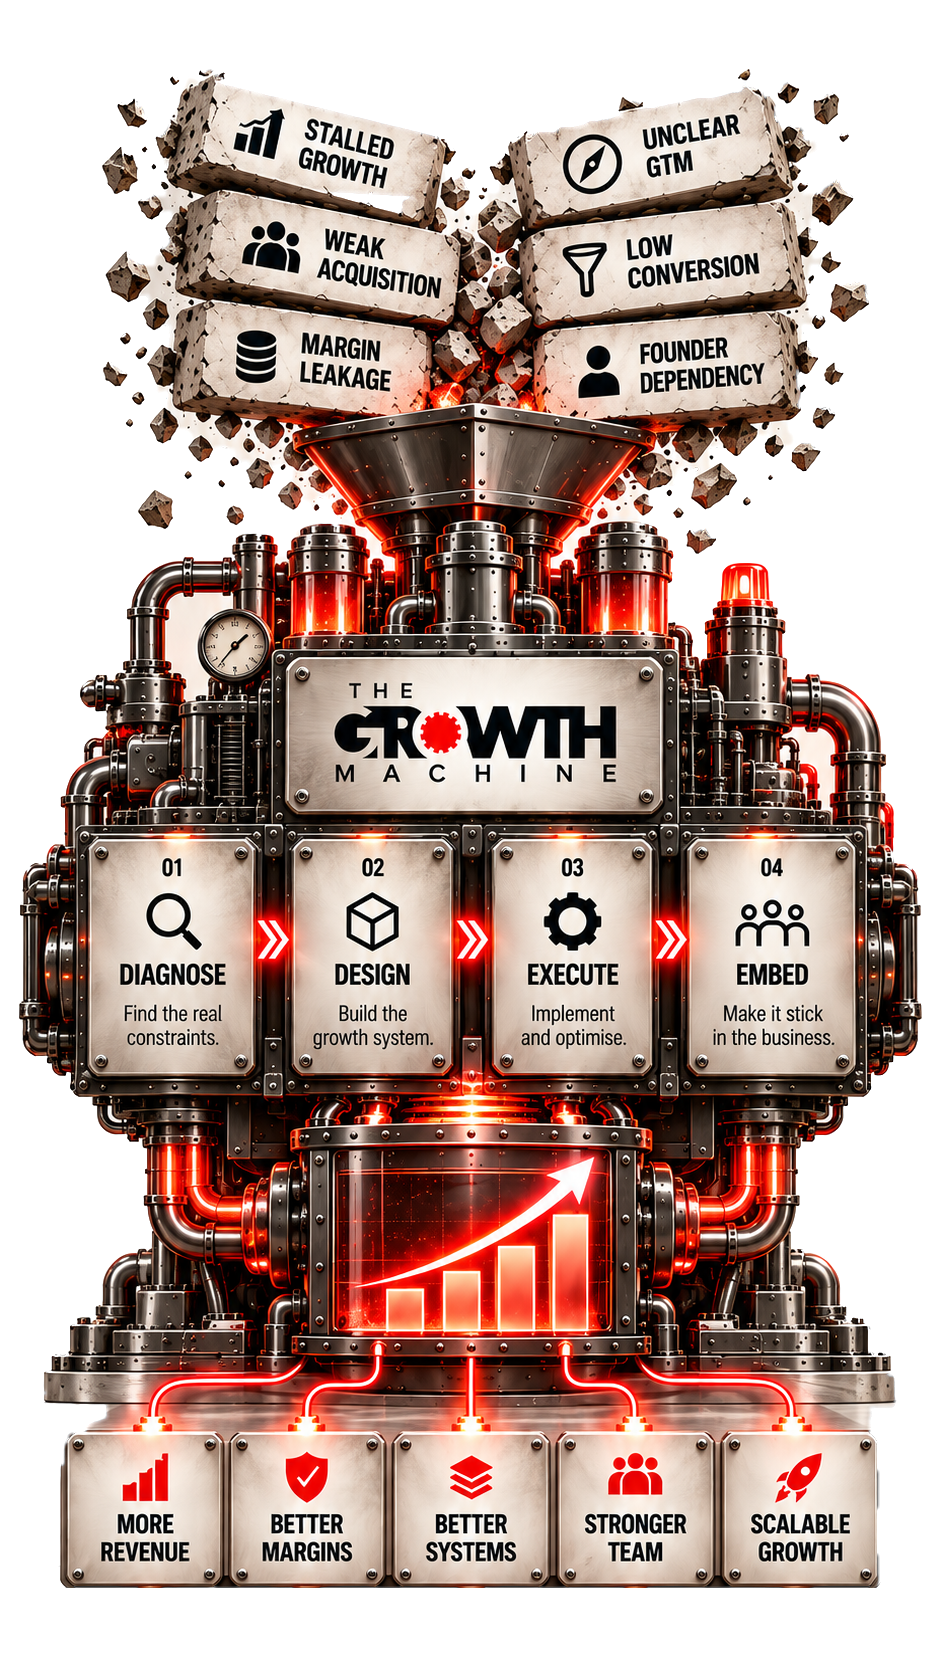
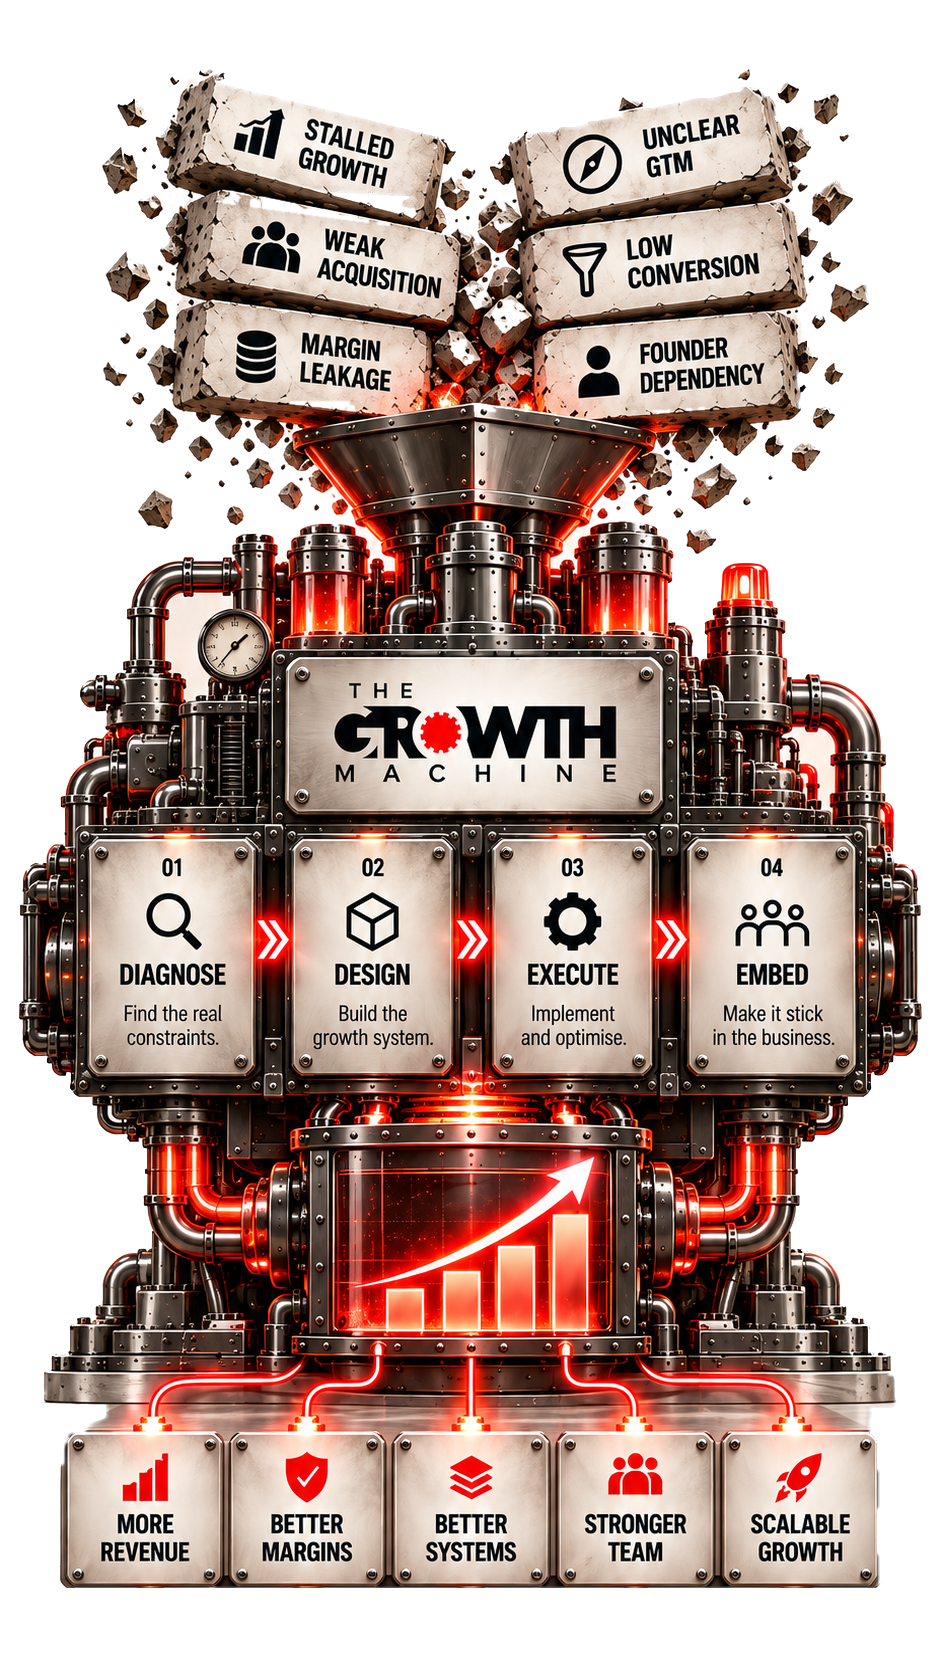
Backlight each object in the machine, not a box around it
Each phase now has its own pre-rendered layer: a torch-red glow hugging
the objects that phase lights, with the objects redrawn on top so the glow
reads as light from behind them. In: every slab and piece of rubble.
Stages: each panel, with four identical outlines so every stage looks the
same when lit. Out: each result block. The moving outline box is gone.

brand/tools/machine-glows.py makes the layers and also removes the last
trapped backdrop from between the rubble and the cables, so the cut-out
holds on a dark page as well as on cream. Layers are 5 to 37KB as AVIF.

Claude-Session: https://claude.ai/code/session_01RD994P3JhY2dxs5GjAWo8M

diff --git a/brand/tools/machine-glows.py b/brand/tools/machine-glows.py
@@ -1,0 +1,172 @@
+"""
+Backlights for the machine sequence, and a clean-up of the cut-outs.
+
+Run from the repo root, after cutout-machine.py has written
+brand/machine/machine-<art>-cutout.png:
+
+    python3 brand/tools/machine-glows.py
+
+For each render it outlines the objects each phase of the sequence lights:
+  in     every slab and every piece of rubble
+  s1-s4  each of the four stage panels
+  out    each result block
+and writes src/assets/machine/glow-<art>-<phase>.png: a torch-red glow hugging
+those outlines, with the objects redrawn on top so the glow reads as light from
+behind them, even where they sit inside the machine body.
+
+It also writes the final cut-out, src/assets/machine/machine-<art>.png, with
+the last specks of studio backdrop removed from between the rubble and the
+cables, so nothing light is left to show on a dark page.
+
+Every outline (slabs, stage panels, result blocks) is measured by hand from the
+originals. Slabs and result blocks are light objects on a light backdrop, so
+no edge test separates them reliably, and the four stage panels must be
+identical in shape so each highlight looks the same as the last.
+"""
+import cv2
+import numpy as np
+
+TORCH = (21, 39, 255)  # BGR of #FF2715
+
+
+def rrect(x, y, w, h):
+    return [(x, y), (x + w, y), (x + w, y + h), (x, y + h)]
+
+
+def chamfer(x, y, w, h, c):
+    """The stage panels' light face: a rectangle with 45-degree corners."""
+    return [(x + c, y), (x + w - c, y), (x + w, y + c), (x + w, y + h - c), (x + w - c, y + h), (x + c, y + h), (x, y + h - c), (x, y + c)]
+
+
+ART = {
+    "desktop": {
+        "in_zone": [(0, 0), (520, 0), (520, 300), (490, 395), (262, 462), (236, 560), (292, 612), (292, 664), (252, 700), (252, 742), (0, 742)],
+        "slabs": [
+            [(18, 86), (254, 146), (260, 232), (12, 180)],
+            [(36, 186), (268, 244), (248, 336), (14, 280)],
+            [(28, 296), (276, 344), (264, 432), (16, 384)],
+            [(36, 400), (270, 420), (266, 512), (30, 494)],
+            [(40, 504), (252, 508), (254, 606), (40, 604)],
+            [(40, 592), (272, 580), (282, 668), (52, 708)],
+        ],
+        "outputs": [rrect(1154, 99 + round(90.75 * k), 268, 81) for k in range(5)],
+        "stages": [chamfer(x, 688, 151, 210, 8) for x in (319, 516, 717, 914)],
+        "clean_zones": [[(1040, 30), (1154, 30), (1154, 690), (1040, 690)], [(1154, 544), (1440, 544), (1440, 566), (1210, 566), (1210, 624), (1154, 624)]],
+        "glow": (9, 2.2),
+    },
+    "mobile": {
+        "slabs": [
+            [(178, 66), (440, 133), (449, 186), (427, 214), (200, 180), (168, 166), (166, 84)],
+            [(186, 194), (452, 230), (464, 250), (460, 320), (184, 302), (172, 290), (176, 208)],
+            [(174, 296), (432, 310), (442, 330), (437, 404), (178, 404), (168, 390)],
+            [(510, 130), (752, 80), (776, 93), (797, 190), (781, 207), (530, 242), (513, 226)],
+            [(516, 230), (786, 198), (802, 213), (807, 294), (540, 328), (523, 316)],
+            [(543, 326), (796, 306), (805, 320), (804, 404), (555, 420), (546, 406)],
+        ],
+        "in_zone": [(0, 0), (941, 0), (941, 522), (0, 522)],
+        "in_exclude": [(282, 412), (656, 412), (640, 440), (560, 500), (520, 525), (380, 525), (330, 490), (290, 445)],
+        "outputs": [rrect(x, 1430, 162, 156) for x in (61, 227, 390, 555, 721)],
+        "stages": [chamfer(x, 839, 165, 236, 9) for x in (89, 290, 491, 686)],
+        "clean_zones": [],
+        "glow": (14, 3.4),
+    },
+}
+
+
+def poly_mask(shape, pts):
+    m = np.zeros(shape, np.uint8)
+    cv2.fillPoly(m, [np.array(pts, np.int32)], 1)
+    return m.astype(bool)
+
+
+def rounded_mask(shape, pts, r):
+    """A polygon with its corners rounded off."""
+    m = poly_mask(shape, pts).astype(np.uint8)
+    if r:
+        k = cv2.getStructuringElement(cv2.MORPH_ELLIPSE, (2 * r + 1, 2 * r + 1))
+        m = cv2.dilate(cv2.erode(m, k), k)
+    return m.astype(bool)
+
+
+def soft(mask, r):
+    return cv2.GaussianBlur(mask.astype(np.float32), (0, 0), r)
+
+
+def glow_layer(objects, cut, sigma_outer, sigma_rim):
+    """Torch glow around the objects, with the objects redrawn on top."""
+    obj = objects.astype(np.uint8)
+    outer = cv2.GaussianBlur(cv2.dilate(obj, np.ones((5, 5), np.uint8)).astype(np.float32), (0, 0), sigma_outer)
+    rim = cv2.GaussianBlur(cv2.dilate(obj, np.ones((3, 3), np.uint8)).astype(np.float32), (0, 0), sigma_rim)
+    g = 1 - (1 - np.clip(outer * 1.7, 0, 1) * 0.85) * (1 - np.clip(rim * 1.5, 0, 1) * 0.95)
+    oa = (cut[..., 3].astype(np.float32) / 255) * soft(objects, 0.7)
+    a = oa + g * (1 - oa)
+    torch = np.array(TORCH, np.float32)
+    rgb = (cut[..., :3].astype(np.float32) * oa[..., None] + torch * (g * (1 - oa))[..., None]) / np.maximum(a[..., None], 1e-4)
+    return np.dstack([np.clip(rgb, 0, 255), np.clip(a * 255, 0, 255)]).astype(np.uint8)
+
+
+def backdrop(img, zone, slabs):
+    """Studio backdrop the cut-out kept between rubble and cables.
+
+    Two tests: light, unsaturated and flat at a 3px scale (catches the backdrop
+    in narrow gaps, where a wider window would see the stones beside it), or
+    simply near-white. Slab faces are light and flat too, so the first test
+    skips their interiors and the second skips the slabs entirely.
+    """
+    lum = cv2.cvtColor(img, cv2.COLOR_BGR2GRAY).astype(np.float32)
+    sat = cv2.cvtColor(img, cv2.COLOR_BGR2HSV)[..., 1].astype(np.float32)
+    m3 = cv2.blur(lum, (3, 3))
+    s3 = np.sqrt(np.maximum(cv2.blur(lum * lum, (3, 3)) - m3 * m3, 0))
+    core = cv2.erode(slabs.astype(np.uint8), np.ones((9, 9), np.uint8)).astype(bool)
+    near = cv2.dilate(slabs.astype(np.uint8), np.ones((7, 7), np.uint8)).astype(bool)
+    flat = (lum > 180) & (sat < 48) & (s3 < 10) & ~core
+    white = (lum > 210) & (sat < 32) & ~near
+    back = cv2.morphologyEx(((flat | white) & zone).astype(np.uint8), cv2.MORPH_OPEN, np.ones((2, 2), np.uint8))
+    halo = ((lum > 158) & (sat < 62) & zone & ~core).astype(np.uint8)
+    for _ in range(2):
+        back = cv2.dilate(back, np.ones((3, 3), np.uint8)) & halo
+    return back.astype(bool)
+
+
+if __name__ == "__main__":
+    for art, c in ART.items():
+        img = cv2.imread(f"brand/machine/machine-{art}-original.png", cv2.IMREAD_COLOR)
+        cut = cv2.imread(f"brand/machine/machine-{art}-cutout.png", cv2.IMREAD_UNCHANGED)
+        H, W = img.shape[:2]
+        shape = (H, W)
+        alpha = cut[..., 3].astype(np.float32) / 255
+
+        slabs = np.zeros(shape, bool)
+        for p in c["slabs"]:
+            slabs |= rounded_mask(shape, p, 4)
+
+        outs = np.zeros(shape, bool)
+        for p in c["outputs"]:
+            outs |= rounded_mask(shape, p, 9)
+
+        # ---- clean the cut-out: drop trapped backdrop around the rubble and cables
+        zone = poly_mask(shape, c["in_zone"])
+        if "in_exclude" in c:
+            zone &= ~poly_mask(shape, c["in_exclude"])
+        cleaning = zone.copy()
+        for z in c["clean_zones"]:
+            cleaning |= poly_mask(shape, z)
+        back = backdrop(img, cleaning & ~outs, slabs)
+        alpha = alpha * (1 - soft(back, 0.7))
+        solid = (alpha > 0.3).astype(np.uint8)
+        n, lab, stats, _ = cv2.connectedComponentsWithStats(solid, connectivity=8)
+        crumbs = np.isin(lab, [i for i in range(1, n) if stats[i, cv2.CC_STAT_AREA] < 10]) & cleaning
+        alpha[crumbs] = 0
+        cut[..., 3] = np.clip(alpha * 255, 0, 255).astype(np.uint8)
+        cv2.imwrite(f"src/assets/machine/machine-{art}.png", cut)
+
+        # ---- the objects each phase lights
+        rubble = zone & (alpha > 0.35) & ~slabs
+        in_objects = slabs | rubble
+        stages = [cv2.dilate(rounded_mask(shape, p, 0).astype(np.uint8), np.ones((3, 3), np.uint8)).astype(bool) for p in c["stages"]]
+
+        phases = {"in": in_objects, "s1": stages[0], "s2": stages[1], "s3": stages[2], "s4": stages[3], "out": outs}
+        so, sr = c["glow"]
+        for ph, m in phases.items():
+            cv2.imwrite(f"src/assets/machine/glow-{art}-{ph}.png", glow_layer(m, cut, so, sr))
+        print(art, "backdrop px removed", int(back.sum()), "| in px", int(in_objects.sum()), "| stage px", [int(s.sum()) for s in stages], "| out px", int(outs.sum()))

diff --git a/brand/tools/cutout-machine.py b/brand/tools/cutout-machine.py
@@ -111,5 +111,5 @@ for name, floor_y in cfg.items():
     F = np.clip(F, 0, 255)
 
     out = np.dstack([F.astype(np.uint8), (a * 255).astype(np.uint8)])
-    cv2.imwrite(f'src/assets/machine/machine-{name}.png', out)
+    cv2.imwrite(f'brand/machine/machine-{name}-cutout.png', out)
     print(name, 'foreground share', round(float(a.mean()), 3))

diff --git a/CLAUDE.md b/CLAUDE.md
@@ -102,15 +102,19 @@ logo itself.
   - Text baked into the render is too small to read on a phone, so every step
     is also live text beside or beneath it. The image has full alt text.
   - It is cut out of its studio backdrop (`brand/tools/cutout-machine.py`,
-    originals in `brand/machine/`) so the machine and its rubble sit on the
-    page rather than in a picture box. The render was lit for a light room
-    and its few trapped specks of backdrop vanish on cream, so How we work is
-    a cream section that continues the problem section, separated by a
-    hairline. That is the one break in the ink/cream alternation.
-  - As the reader scrolls, the machine fades back and one part at a time
-    comes forward at full strength with a torch outline; the render itself
-    never moves. Reduced motion, or no JavaScript: no pinning, no fading,
-    every step listed.
+    then `brand/tools/machine-glows.py`; originals in `brand/machine/`) so the
+    machine and its rubble sit on the page rather than in a picture box. The
+    clean-up removes trapped backdrop between rubble and cables, so it holds
+    on ink as well as cream. How we work is currently a cream section that
+    continues the problem section, separated by a hairline; Andrew is
+    comparing it on ink.
+  - As the reader scrolls, the machine fades back and one phase at a time is
+    backlit in torch red: every slab and piece of rubble going in, then each
+    stage panel, then each result block. Each glow follows the object's own
+    outline, and the four stage outlines are identical so every stage looks
+    the same when it lights. No boxes. The render itself never moves.
+    Reduced motion, or no JavaScript: no pinning, no fading, every step
+    listed.
 - **The logo below 200px wide** loses its hairline THE and MACHINE. 200px is
   the default; the phone header goes to 156px, and 136px under 400px.
   `public/favicon.svg` is a simplified 8-tooth gear, because the full gear

diff --git a/brand/README.md b/brand/README.md
@@ -32,9 +32,17 @@ Andrew's `growth-machine-desktop.svg` and `growth-machine-mobile.svg`.
 and `numpy`). It takes the backdrop that reaches the image edge as background,
 treats drawn outlines as walls so light plates stay solid, cuts everything
 below the floor line, and removes the grey fringe from soft edges. Two plates
-at the very top are declared solid by hand in that script. The rest of those
-files (glow overlays, a spinning cog) was not used: `MachineRun` replaces it
-with an aligned spotlight, a vector nameplate carrying the real logo, and live
-text. To change the render, replace the PNG; the build regenerates the web
-formats. If the composition moves, the plate, rivet and region coordinates at
-the top of `MachineRun.astro` must move with it.
+at the very top are declared solid by hand in that script. It writes
+`brand/machine/machine-<art>-cutout.png`.
+
+`tools/machine-glows.py` then finishes the job. It removes the last trapped
+backdrop from between the rubble and the cables (so the cut-out holds on a
+dark page), writes the final `src/assets/machine/machine-<art>.png`, and writes
+one backlit layer per phase, `glow-<art>-<phase>.png`: the torch glow hugging
+that phase's objects, with the objects redrawn on top. Slab, stage-panel and
+result-block outlines in that script are measured by hand from the originals.
+
+The rest of Andrew's SVGs (glow overlays, a spinning cog) was not used. To
+change the render, replace the original PNG and run both scripts. If the
+composition moves, the outlines in `machine-glows.py` and the plate and rivet
+coordinates at the top of `MachineRun.astro` must move with it.
